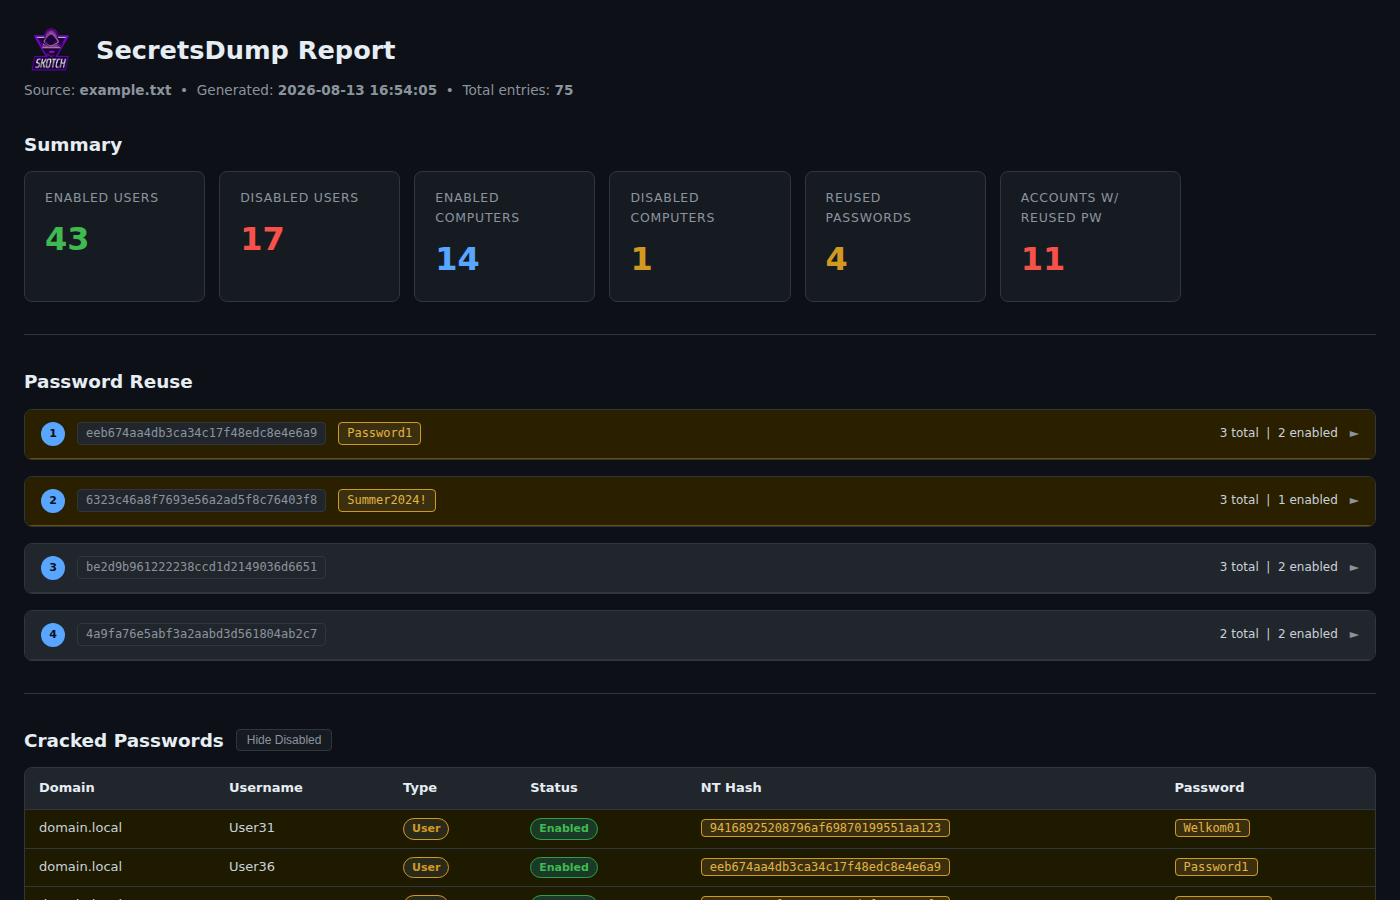
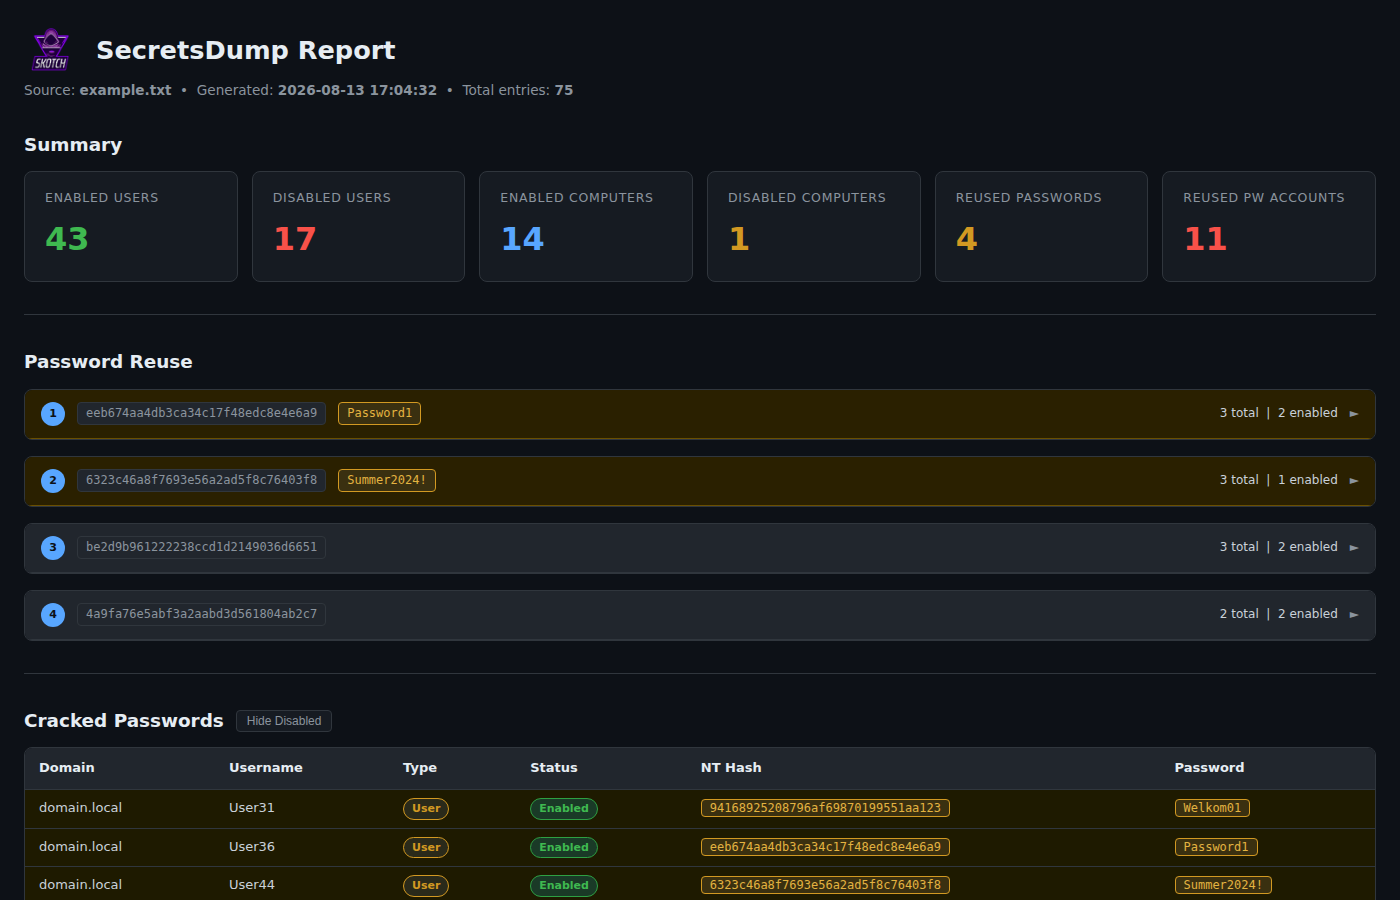
Fix summary cards width and update screenshot

diff --git a/sdr.py b/sdr.py
@@ -208,7 +208,7 @@ HTML_TEMPLATE = """\
     /* ------------------------------------------------------------------ */
     .cards {{
       display: grid;
-      grid-template-columns: repeat(auto-fill, minmax(180px, 1fr));
+      grid-template-columns: repeat(auto-fill, minmax(190px, 1fr));
       gap: 14px;
       margin-bottom: 32px;
     }}
@@ -226,6 +226,7 @@ HTML_TEMPLATE = """\
       letter-spacing: .06em;
       color: var(--muted);
       margin-bottom: 6px;
+      white-space: nowrap;
     }}
 
     .card .value {{
@@ -517,7 +518,7 @@ HTML_TEMPLATE = """\
     <div class="value">{reused_hash_count}</div>
   </div>
   <div class="card red">
-    <div class="label">Accounts w/ Reused PW</div>
+    <div class="label">Reused PW Accounts</div>
     <div class="value">{reused_account_count}</div>
   </div>
 </div>
